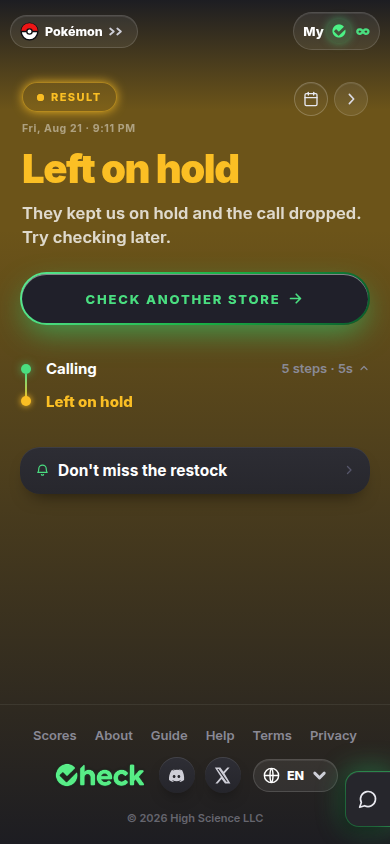
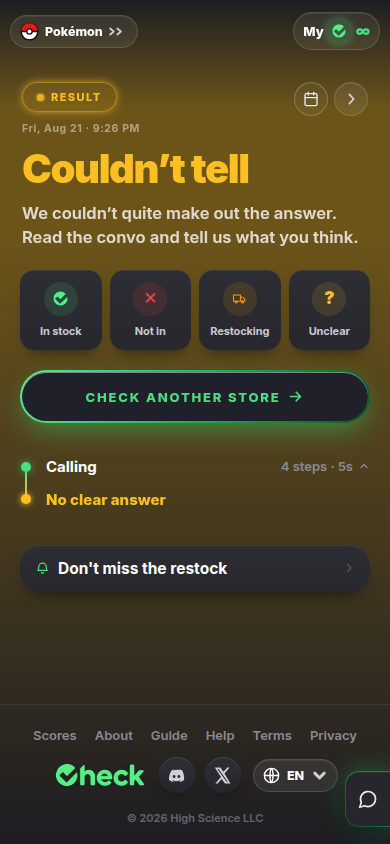
Check 436 confirms the wake fix, and the screen fault is narrowed to one door
SECOND DIAL, same advert scene. Staff's line ended at 39335, Charlie's first
sound at 42628 -- 3.3 seconds, against 1.5 on check 435 and 4.4 on 434. The
spread between 435 and 436 is how long their voice ran past the first written
word; on both, the record shows the decision landing well before the ceiling
would have reached it (~46.7s on 435, ~47.2s on 436), so the voice stopping is
what ended the wait, which is the whole fix. 7.3c, meter 24s, verdict right.

THE SCREEN MOVED FROM "Left on hold" TO "Couldn't tell". The wrong key is gone
-- that is the fix in this branch working on a real check. The PIN is not: the
page still takes an early key and keeps it, and the record settles in stock a
moment later.

NARROWED, NOT CLOSED. The door answering is the on-demand settle (the
`o.status === "completed"` branch of /pub/result), not the fall-through below
it: with the fall-through's raw key removed, the value the page got changed
from the provider's wording read to that branch's own consensus. It settles in
the fifth of a second between the line ending and the bridge's finalize writing
in_stock. Worth noting for whoever takes it: it reads the verdict off
ElevenLabs' transcript while writing OURS onto the row two lines later
(transcriptPatch, "ours if we recorded any"), so it is settling off the worse
of the two records it has in hand.

I tried a row-status guard on the fall-through door for this. The test proved
[…]

diff --git a/src/server.ts b/src/server.ts
@@ -3834,8 +3834,8 @@ app.get("/pub/result/:cid", async (c) => {
   // …AND A CHECK WE CANNOT EVEN FIND MAY NOT BE GIVEN A VERDICT AT ALL. This is the shape check 435
   // really hits: at a comeback Charlie reconnects as a NEW conversation, so for a beat the page is
   // asking by an id the row is not pointed at yet, no row answers to it, and there is no record to
-  // ask. There is nothing to check the provider's key against, so the honest answer is the progress
-  // and none of the four fields that would paint a verdict on the page.
+  // ask. There is nothing here to check the provider's key against, so the honest answer is the
+  // progress and none of the four fields that would paint a verdict on the page.
   if (o) {
     const { statusKey: _k, confirmed: _c, soldOut: _s, doesNotSell: _d, ...progress } = o as unknown as Record<string, unknown>;
     return c.json({ ...progress, ts: undefined });

diff --git a/docs/team/voice-calls/checkpoint.md b/docs/team/voice-calls/checkpoint.md
@@ -1,7 +1,7 @@
 # VOICE-CALLS — checkpoint (current state)
 > Calling engine + voice tuning + phone-tree mapping. `src/voice/` is FROZEN (machine-locked; owner
 > task + repo-root `.unlock`). Charter: handoff.md + MAPPING-MANUAL.md. <=60 lines. **LAW: Admin is the record of truth.**
-## 08-21 THE HELD WAKE IS ASKED WHEN THEIR VOICE STOPS (owner's ONE fix off check 434; `src/voice/bridge.ts`). 430's rule holds a piece's person-or-recording question while their sentence is still being said — but NOTHING WATCHED FOR THE SENTENCE ENDING: it was re-asked only when Echo wrote another piece or when `WAKE_SENTENCE_CEILING_MS` (4000) fired, so a turn that ends in SILENCE (Staff answer us, then wait) burned all four seconds with his reply already written and his mouth held shut. 434: their line ended 39270, he spoke 43642 — 4.37s, and the row reads "the reader could not answer in time" because it was not even ASKED until the ceiling let it be. Same fault cost 26s on 432. New `askTheHeldWakeNow()` fires at the SAME instant `maybeSayTheLittleHello("their voice stopped")` already uses (~line 4104); the ARMED CEILING TIMER is the record that a decision is held, so no timer = this moment is not ours = a turn already answered is never re-asked; the ceiling itself is unchanged and is now backstop only. Proved by `scripts/test-delta-clip.ts` scene "CHECK 434'S MOMENT": decided <1.5s after the stop, and it FAILS on the timing line alone with the one call removed (I ran it both ways). **ITEM 5, THE 08-07 SCREEN FAULT, CLOSED:** `statusFromTheRecord` (service.ts) returned early on `confirmed !== null`, so a row carrying a real answer AND a near-miss key walked past all three doors and the screen painted Left on hold over an in-stock record; `NEVER_GOT_AN_ANSWER` now corrects it, and sold_out/does_not_sell/not_in_stock are answers and untouched. Billing unmoved: `billableOutcome` charges on `definitive` before it reads a key. **DIALED, CHECK 435 (scene 22, the same advert card 434 ran):** Staff's line ended 41358, Charlie's first sound 42886 — **1.5s, against 4.4s on 434** (39270 -> 43642). Meter 27s (434: 29). **7.9¢** against 434's 8.3¢ and 428's 7.2¢. Verdict in_stock, right. The record shows early_turn 41190 -> wake_read 42886, so the ceiling (which would have decided at ~46.7s) never got there. **435 ALSO CAUGHT THE SCREEN FAULT LIVE and named the real door:** the card read Left on hold while the record settled in_stock. `/pub/result` has FOUR ways out; three ask the record, the fourth spread the provider's raw outcome whole — key and all — and that is why the 08-21 door-naming row never caught it (it never called `screenSaid`). **Also learned: that tracer CANNOT catch this door at all** — the screen is read after the check closes and emits into a closed receipt are dropped. Fixed: a check the door can NAME has its key run through `statusFromTheRecord` + `screenSaid`; a check no row answers to (the reconnect window, where the page holds conversation N-1 and the row points at N) gets progress and NO verdict fields at all. Aliveness untouched — the gatekeeper is still the only witness. New `scripts/test-screen-status.ts` (9 green, in test-all.sh) proves ElevenLabs really does hand that key.
+## 08-21 THE HELD WAKE IS ASKED WHEN THEIR VOICE STOPS (owner's ONE fix off check 434; `src/voice/bridge.ts`). 430's rule holds a piece's person-or-recording question while their sentence is still being said — but NOTHING WATCHED FOR THE SENTENCE ENDING: it was re-asked only when Echo wrote another piece or when `WAKE_SENTENCE_CEILING_MS` (4000) fired, so a turn that ends in SILENCE (Staff answer us, then wait) burned all four seconds with his reply already written and his mouth held shut. 434: their line ended 39270, he spoke 43642 — 4.37s, and the row reads "the reader could not answer in time" because it was not even ASKED until the ceiling let it be. Same fault cost 26s on 432. New `askTheHeldWakeNow()` fires at the SAME instant `maybeSayTheLittleHello("their voice stopped")` already uses (~line 4104); the ARMED CEILING TIMER is the record that a decision is held, so no timer = this moment is not ours = a turn already answered is never re-asked; the ceiling itself is unchanged and is now backstop only. Proved by `scripts/test-delta-clip.ts` scene "CHECK 434'S MOMENT": decided <1.5s after the stop, and it FAILS on the timing line alone with the one call removed (I ran it both ways). **ITEM 5, THE 08-07 SCREEN FAULT, CLOSED:** `statusFromTheRecord` (service.ts) returned early on `confirmed !== null`, so a row carrying a real answer AND a near-miss key walked past all three doors and the screen painted Left on hold over an in-stock record; `NEVER_GOT_AN_ANSWER` now corrects it, and sold_out/does_not_sell/not_in_stock are answers and untouched. Billing unmoved: `billableOutcome` charges on `definitive` before it reads a key. **DIALED, CHECK 435 (scene 22, the same advert card 434 ran):** Staff's line ended 41358, Charlie's first sound 42886 — **1.5s, against 4.4s on 434** (39270 -> 43642). Meter 27s (434: 29). **7.9¢** against 434's 8.3¢ and 428's 7.2¢. Verdict in_stock, right. The record shows early_turn 41190 -> wake_read 42886, so the ceiling (which would have decided at ~46.7s) never got there. **435 ALSO CAUGHT THE SCREEN FAULT LIVE and named the real door:** the card read Left on hold while the record settled in_stock. `/pub/result` has FOUR ways out; three ask the record, the fourth spread the provider's raw outcome whole — key and all — and that is why the 08-21 door-naming row never caught it (it never called `screenSaid`). **Also learned: that tracer CANNOT catch this door at all** — the screen is read after the check closes and emits into a closed receipt are dropped. Fixed: a check the door can NAME has its key run through `statusFromTheRecord` + `screenSaid`; a check no row answers to (the reconnect window, where the page holds conversation N-1 and the row points at N) gets progress and NO verdict fields at all. Aliveness untouched — the gatekeeper is still the only witness. New `scripts/test-screen-status.ts` (9 green, in test-all.sh) proves ElevenLabs really does hand that key. **CONFIRMED ON A SECOND DIAL, CHECK 436:** Staff ended 39335, Charlie 42628 — **3.3s**, and 435 was 1.5s (the spread is how long their voice ran past the first written word; both are the voice-stop deciding, not the ceiling, which would have been ~46.7s and ~47.2s). 7.3¢, meter 24s, verdict right. **The screen moved from "Left on hold" to "Couldn't tell"** — the wrong KEY is gone, the PIN is not. **STILL OPEN, AND NOW LOCATED:** the on-demand settle (`/pub/result`, the `o.status === "completed"` branch) settles a check in the fifth of a second between the line ending and the bridge's own finalize writing in_stock, and the page pins that first key for ever. It reads the verdict off ElevenLabs' transcript while writing OURS to the row two lines later (`transcriptPatch`, "ours if we recorded any") — settling off the worse of the two records is the next thing to look at. NOT fixed: I tried a row-status guard on the fourth door, the test proved that door is not the one answering, and I took it out rather than ship an unproven rule.
 ## 08-20 OUR OWN BRAIN, BUILT AND DIALED (owner's go; full detail in `echo-handoff.md`). NOT the blocked road: the provider refuses a custom brain on any agent with a quick voice clone, so WE run the conversation and their PLAIN SPEECH service says each line in the same voice, the machinery the fresh "Oh, hey!" already uses. `src/voice/ourbrain-session.ts` speaks the provider's own message protocol, so `bridge.ts` cannot tell the lanes apart and every rule in it runs unchanged; `wireTheSession()` is the one place both are wired. Echo is the whole of his hearing here, so every fresh Staff line is handed as their turn (never their greeting, never their walking-away line). Fallback wired: `onStumble` -> `brainFellBack` -> the hosted agent mid call, same voice, nothing said out loud. `charliePaidSeconds` (events.ts) is what the cost engine prices, so a stretch our brain ran costs nothing per second. **CHECK 427 (the first advert check on our own brain): 2.8¢ against 9.5-11.9¢ the old way, 89% profit, and it FAILED on one red row.** Its own fault, the silence after his two-word hello, and the four money-and-naming fixes that followed it (the ElevenLabs per-character charge, the Anthropic writing charge, the first bucket named true, and checks 425/426 settling off the database instead of a memory a deploy empties) are all shipped and all detailed in `echo-handoff.md`. **08-20 LATE, HIS THREE RECORD FAULTS OFF 428, ALL FIXED (commit 2b4467dd).** NONE of them was the call itself. **ONE, THE MENU ROW:** `costBuckets` takes `menuWalkedBy` (Alpha pressed a key, Bravo said the word, read off the record); with neither the share is 0, so navLine and navFork are 0, the row drops through the existing no-free-items filter and the phone line and Echo each get ALL their own seconds back, same total. It also names what really ran instead of being hard-labelled Bravo. **TWO, STAFF'S ANSWER LOST ITS TIME:** on 428 "Pitch black the booster boxes." came back 45420 to 45420, no length, at the very instant his question starts; it had its own start and end on 425, 426, 427. Fixed AT THE STAMP, both halves: (a) a line Echo gives back with BOTH a start and an end is a sentence measured off the audio's own clock and keeps them, GUARDED so it may only step back over a line its own sound finished before, which is why 372's fault still cannot come back (pinned both ways); (b) a line of his with no turn start to spend files at `agentPlayingUntil`, the moment the store can first hear it, which is why his goodbye filed at 48.194s inside his own question running to 49.947s. AND the end his sound was already heading for could never land: `hisEndWaitingForWords` was cleared to nought on the line ABOVE the test that reads it, so every line written after its own sound started kept no end at all. **THREE, ONE CHECK TWO ANSWERS:** a check is named `bridge:<room>`, then the provider's conversation id, then `ours:<room>`, and the row is repointed as it goes, so one name found nothing and the door answered off the raw record. `findCheckRow` is the ONE door and both names resolve through the room. Suites: call-events 153 · delta-clip 436 · dropped-call 45 · meter 96 · behaved 109 · ourbrain 36 · bridge 13 · tsc clean. **CHECK 430 PROVED ALL THREE ON A REAL RECORD: no menu row and the buckets sum exactly (107095 = 107095), every line carries its own start and end with none inside another (Staff 48708-52018, his question 41089-46347, his goodbye 53820-56376), and both names give one answer.** **BUT THE CALL WENT WORSE AND IT IS NOT THE RECORD: Charlie ANSWERED THE ADVERT.** No `not_a_person` row on 430 where 427 and 428 both had one, so the wait ended at 18.8s ("Staff back after 8s") and at 19.1s he re-asked the question into the store's recording. Meter 43s real against his 31 line, 10.7¢ against 428's 7.2¢, profit 57% real against 71%, wasted 3.1¢. The card still says TEST PASSED. Nothing today touches the wake check; the record cannot say whether the reader called the advert a person or simply did not answer in time, and MAKING IT SAY is the next job. THE SWITCH IS BACK OFF, test dials only. **08-21 THE ADVERT CANNOT BE ANSWERED AGAIN (commit e7c60266), four items, all proven:** (1) **a line still being transcribed is not a finished line** — `maybeWakeCharlie` holds every partial piece, anchored on `wakeHeldSinceMs` (the moment we FIRST held; the sound stamp refreshes on every report so a voice that keeps talking would reset it for ever), released the instant their sound stops or at a 4s ceiling, and the reader is asked about the WHOLE turn, never the first three words; (2) **"thanks for holding" is off `ADDRESSED_TO_US`** (a recording says it as often as Staff do) — "this is <name>" and "<name> speaking" were checked for the same trap and KEPT, a recording announces the STORE, never a person's own name; (3) **every record now stamps `wake_read`**: the reader said person, the reader said recording, or the reader ran out of its 1500ms and the measured sound stood in; (4) **`spokeOverTheRecording` (meter.ts, pure) FAILS the card** when a line of his lands inside a stretch the reader judged `played_at_us`, excluding our own clips BY TEXT (`hold_ack_clip` now carries its words) and BY MOMENT (±1200ms) so old records grade right. `scripts/replay-430.ts` + three whole records off staging (`scripts/replay-records/`) replay 427, 428 and 430 against the fixed grading on every future change, 12/12: 427 and 428 untouched, 430 FAILS on the new rule and on nothing else. Suites: meter 109 · listen-nav 82 · delta-clip 445 · call-events 153 · behaved 109 · bridge 13 · ourbrain 36 · dropped-call 45 · replay 12 · tsc clean. **CHECK 432 (scene 22) PROVED IT LIVE: the advert reached him at 20.1s and NOTHING was decided on it, the `wake_read` at 27.1s says recording, and he said not one word between "Sure, thanks!" (16.1s) and "Oh, hey!" (41.9s)** — where 430 spoke into it at 19.1s. **432 FAILED ON THE NEXT FAULT IN THE SAME WINDOW, named on its own record: `hello_reply_held`.** His reply to their hello was written INSIDE the now-longer held window, the `!charlieMaySpeak` branch of the audio door dropped its sound, and NOTHING re-asks him — so the store heard nothing from 41.9s until 67.8s and the robot prompted "Hello?" at 60.7s. Meter 50s graded against his 30 line, profit 43% against the 56% floor, 15.4¢ with 7.7¢ wasted. The 41.9s `wake_read` says `no_answer` (the reader timed out and the measured sound stood in), which is the owner's known open risk and is now named on every record. **NEXT JOB: a reply held past the window must be re-asked or released, never dropped.** **08-21 HIS SIX ITEMS, ALL SHIPPED (commit 0e35f93f).** **ONE, THE REPLAY GATE** `scripts/replay-gate.ts` + `replay-records/golden.json`: 431 and 432's whole records join 427, 428 and 430, and every one replays on EVERY change against FOUR things, not just the fault being fixed — the words, their order, Charlie's meter, the cost. `--write` moves the golden on purpose and the diff is the record of what moved. His reason, and he is right: 372's order fix broke the timestamps, that fix let Charlie answer the advert, the advert fix left him mute 26 seconds; all three live at the same instant and four things read it. **TWO, THE METER IS OFF BY DEFAULT.** `whyHeIsStillBilling()` (bridge.ts) is the WHOLE list of states that may hold his meter open — his voice going out · a person talking to us · he owes them a word (`charlieThinkingMs`, 6s) · their turn being handed to him · the wake check deciding · he was told to close — each with its own ceiling, and a new one is added on purpose or not at all. A backstop runs for as long as his session is open, needs NOTHING to arm it, and drops him after 4 seconds of nothing on that list; it sets `backstopFired` so `beginHold` cannot swallow it in the 08-08 unannounced-quiet gate, which is what really billed 432's 26 seconds. The fast 1-second beat on the ear's voice-stop is untouched. **TRIED AND REJECTED: "the recorded question has not been answered yet"** — it held his meter open through exactly the silence the drop exists to catch. **THREE, A HELD REPLY IS RE-ASKED.** Every drop of his sound is stamped now (it was once per check, so 432's costly one left no trace), and `hisReplyWentNowhere` asks him to say it again the moment there is anybody to hear it — twice a check at most, and NEVER while `onHold`, where the drop is the advert fix doing its job. **FOUR, OUR OWN VOICE IS KILLED BY THE CLOCK** (`ourVoiceWasPlaying`, events.ts; `ourSoundGoesOut` is now the ONE door that moves the playout clock). A sentence that STARTS inside our own sound, tail 300ms, and is at least half covered by it, is ours. Measured coverage on the real records: 431's two fake lines 87% and 52% (both dropped), Staff's "It's packs of" over the top of him 37% and 432's 11-second advert 19% (both KEPT — and the advert line is what the whole advert grade reads). A line with no measured end is NEVER accused. **FIVE, THE CARD CATCHES BOTH.** `wentQuietOnThem` (meter.ts, pure) fails a check that went quiet more than 6 seconds with a person waiting and nobody on hold: green to 4, yellow to 6, red from 7, sized off 428's own accepted 5. 430 (12s) and 432 (19s) both said TEST PASSED and now fail. **SIX, LEFT ON HOLD IS TAKEN BACK.** `statusFromTheRecord` only ever ADDED that key; the reader decides it off the WORDING of the last Staff line, so "one moment, I'll go and have a look" read as a check that ended on hold. When the record shows the hold ended, the key is dropped — the same law as the two lines above it, pointed the other way, at all three doors. Suites: replay gate 20 · meter 120 · call-events 163 · delta-clip 456 · dropped-call 48 · listen-nav 82 · behaved 109 · hold-wake 26 · bridge 13 · ourbrain 36 · gates 9 · tsc clean. **CHECK 433 (scene 22, the first dial on all six): the card PASSES and the meter half fails by ONE second.** Charlie's meter 35s where 432 ran 57, graded 31 against the yellow 30; cost 11.4¢ against 432's 15.4¢ and 428's 7.2¢, 3.8¢ of it wasted; profit 54% real. NO mute at all — no `hello_reply_held`, no re-ask needed — and the advert was refused again (`wake_read` recording at 29.2s). **TWO THINGS 433 LEAVES OPEN, BOTH ON THE RECORD.** (1) **THE SCREEN FAULT IS STILL LIVE**: the customer's screen said Left on hold on a check the record settled in_stock. Item 6's rule was in and did not catch it, so the two `/pub/result` doors that hand a row's OWN key to a customer — the `bridge:<room>` door and the completed-row door — now ask the gatekeeper first and run `statusFromTheRecord` (commit da2ab45b). NOT PROVEN LIVE: it needs the next dial. The page pins the FIRST keyed answer it is ever given (the 08-06 no-flicker rule), so one early answer is the answer for ever. (2) **THE WORDLESS REJOIN DROPPED HIM ON A PERSON WHO HAD ALREADY ANSWERED.** Staff really said "Yeah. We've got a few of those." at 35.9s, it was written down and handed to him at 39.4s — and at 42.3s `wordless_rejoin` dropped him again because no words were written AFTER `ears_back`, so he sat off for 23 seconds and the robot said "Hello?" at 60.4s. `heardWordsSinceEarsBack` looks only forward; a turn already in his hands is words. It is why 433 still ran 85 seconds, and it is the next fix. NOT BUILT: the owner's order was one dial at the end, so this is his call, not mine. **CHECK 434 IS THE CLEAN ONE (the second dial, on the finished code): CARD PASSED AND METER HALF PASSED, the first clean pass on scene 22 since 428.** 57 seconds end to end, Charlie 29s, 8.3¢ against 433's 11.4 and 432's 15.4 (428 was 7.2), profit 67%, wasted 3.8¢, no silence anywhere, no wordless rejoin, and the advert refused again (`not_a_person` at 28.9s). **THE ONE RED IS THE SCREEN, AND IT SURVIVED BOTH HARDENINGS:** it said Left on hold on a check that settled in_stock, on 433 AND 434. Every door on `/pub/result` now asks the gatekeeper and runs `statusFromTheRecord`, and the key still got out, so it is no longer worth reasoning about: `screenSaid` stamps `result_screen` on the record with the DOOR and the key it handed a customer. The next dial names it. NOT FIXED, and it is the last thing open on the six.
 ## 08-20 THE COMEBACK, SPLIT IN TWO + THE QUICK THANKS (owner's two fixes; full detail and every number in `echo-handoff.md`). **FIX 1** `HOLD_ACK_LINE` = `"Sure, thanks!"` / `"Claro, gracias."` — two words, played only as Staff walk away, 1.4s on the line (the old "No worries, take your time!" ran nearly two). **FIX 2 THE TWO PART COMEBACK**: the instant the words prove a person AND that person pauses, Charlie says `COMEBACK_HELLO_LINE` ("Oh, hey!") in his own voice, MADE FRESH EVERY CHECK and never kept (`phoneClip(..., fresh)` skips the clip store both ways — it is the one line of ours that is not a recording); his full reply keeps building behind it and the engine always plays the two words first. Started at the reconnect, binned untouched with his session when the words say the store played that at us, never over the person (`theirVoiceOn`) or our own audio (`agentPlayingUntil`). **ALSO BUILT THIS RUN**: the wake check reads Echo's first PIECE instead of the joined sentence (the wait now ends ~1.4s after their voice, was 3.6s) · his reply is HELD not dropped while it proves · a reply he began BEFORE their words reached him is thrown away (417/419: the store heard the hold reply as the answer) · a repeat of the hold reply is silenced · the wordless-rejoin guard no longer re-arms on a comeback words just proved (416: dropped mid reply, 84s/11.3¢) · the wait's own row is drawn before the hand-over row and its sentence reads those rows. **CHECK 424: FAILED**, meter 37s real / 30s graded (under 31, yellow), card verdict PASS, 11.1¢; **his first sound 3.6s after they came back** (1.9 of it their own sentence still being spoken), reds = awake on hold 6s and his answer gap 7s. **THE OWNER'S OPEN DECISION: his head start costs 4-7 awake-on-hold seconds by design, so that row swings yellow to red; either the bands move or the head start goes.** Proven first and pinned: hold-wake 26 (on his own advert recording) · delta-clip 407 · behaved 109 · prompts 262 · meter 93 · call-events 124 · listen-nav 78 · bridge 13 · dropped-call 33 · tsc clean.
 ## 08-19 ECHO 3, THE ADVERT GRADING FIX (owner ruled: grade such calls fairly after the fact; commits 9915c6c2 + b34dd95b, full story + the interpretation call for the PM in `echo-handoff.md`). **`advertAsWait` (meter.ts, pure): when `played_at_us` proves a recording, the GRADE treats the stretch as a wait** — hold from the `music_heard` stamp when one covers the judged line unbroken by a person (else the judged line itself, 376's family), drop the ruled 3s in, off until the real comeback, intersected with his real meter stretches. meterVerdict grades meter AND profit (a friend: the forgiven seconds are his billed seconds) on the as-if numbers, real numbers printed beside, forgiveness in its own ungraded row; `meterStoppedOnHold` passes with words when no live hold + the proof; a `gaps`/`missed_turn` stamp INSIDE the window does not grade (401's silenced-note reply read as a 14s answer gap). Record/cost/charge byte-identical; no proof = grades byte-identical (asserted). **PROVEN: 398/399/400 re-read live all TEST PASSED (46/47/49s red → 26/27/29 graded; 56/55/53% → 70/69/68 vs the 56 floor) · fresh dials 401 + 402 both scene 22, 402 PILL PASSED clean (26s graded, 70%).** Harness word-for-word red on both dials = the robot's once-only "Sorry, that's all I know." answered into Charlie's goodbye, unwritable by design, the 08-04 teach-the-matcher family. Suites: meter 86 · behaved 102 · simulations 18 · tsc clean. **TWO, THE RECORDED GOODBYE — DONE, proven on CHECK 405 (pill PASSED)**: his sign-off is the owner's ruled line "Thanks so much, have a good one!" (`GOODBYE_LINE`/`_ES`, charlie-setup.ts, per-voice phoneClip, NO name), played by `sayTheRecordedGoodbye` (bridge.ts, .unlock opened+deleted) at the engine-known moments — the reader's knock with NOTHING missing (first or re-knock), the warm wrap-up's quiet, and the fresh Staff line after OUR set-ask recording (guarded by `asksUsBack` + `saidGoingToCheck` so a question back or a walk-away is never goodbye'd) — closing through `hangUpAfterGoodbye`; his own versions drop behind `ackPlayingUntil` and are never written (`covered_by_recording`/`goodbye_covered`). TWO FAULTS THE DIALS CAUGHT, both fixed+pinned: 403 (warm wrap counted its 5s from ARMING, cut off the set answer → the quiet now counts from the last SOUND, ours or theirs) and 404 (his generated goodbye beat the reader's re-knock → the answer to the recording's question closes deterministically). 405: set-ask clip 41.3s · answer ON record 47.7s · recorded goodbye 52.5s · signed off · meter 45 real/25 graded · profit 56 real/71 graded · 10.9¢. Rig 387 · prompts 268. **THREE, THE OWN BRAIN — STOPPED, WRITTEN UP (PM: unblock wanted)**: everything §7 orders already exists (switch · /pub/brain endpoint · ladder rungs · segmentBrain stamp · §8 call_dropped never-completed/never-charged) EXCEPT the agent — the provider RE-REFUSED today, custom LLM + Branson HD (instant clone) = `custom_llm_not_allowed_in_with_agent_with_ivc_voice`, same as 07-31. Ways out are the owner's: professional voice clone, or a premade voice (breaks his ruled voice). Finish line (loud music < 31s, switch ON) and §8's real-dropped-call proof both ride the unblock. Full detail in echo-handoff.md.
